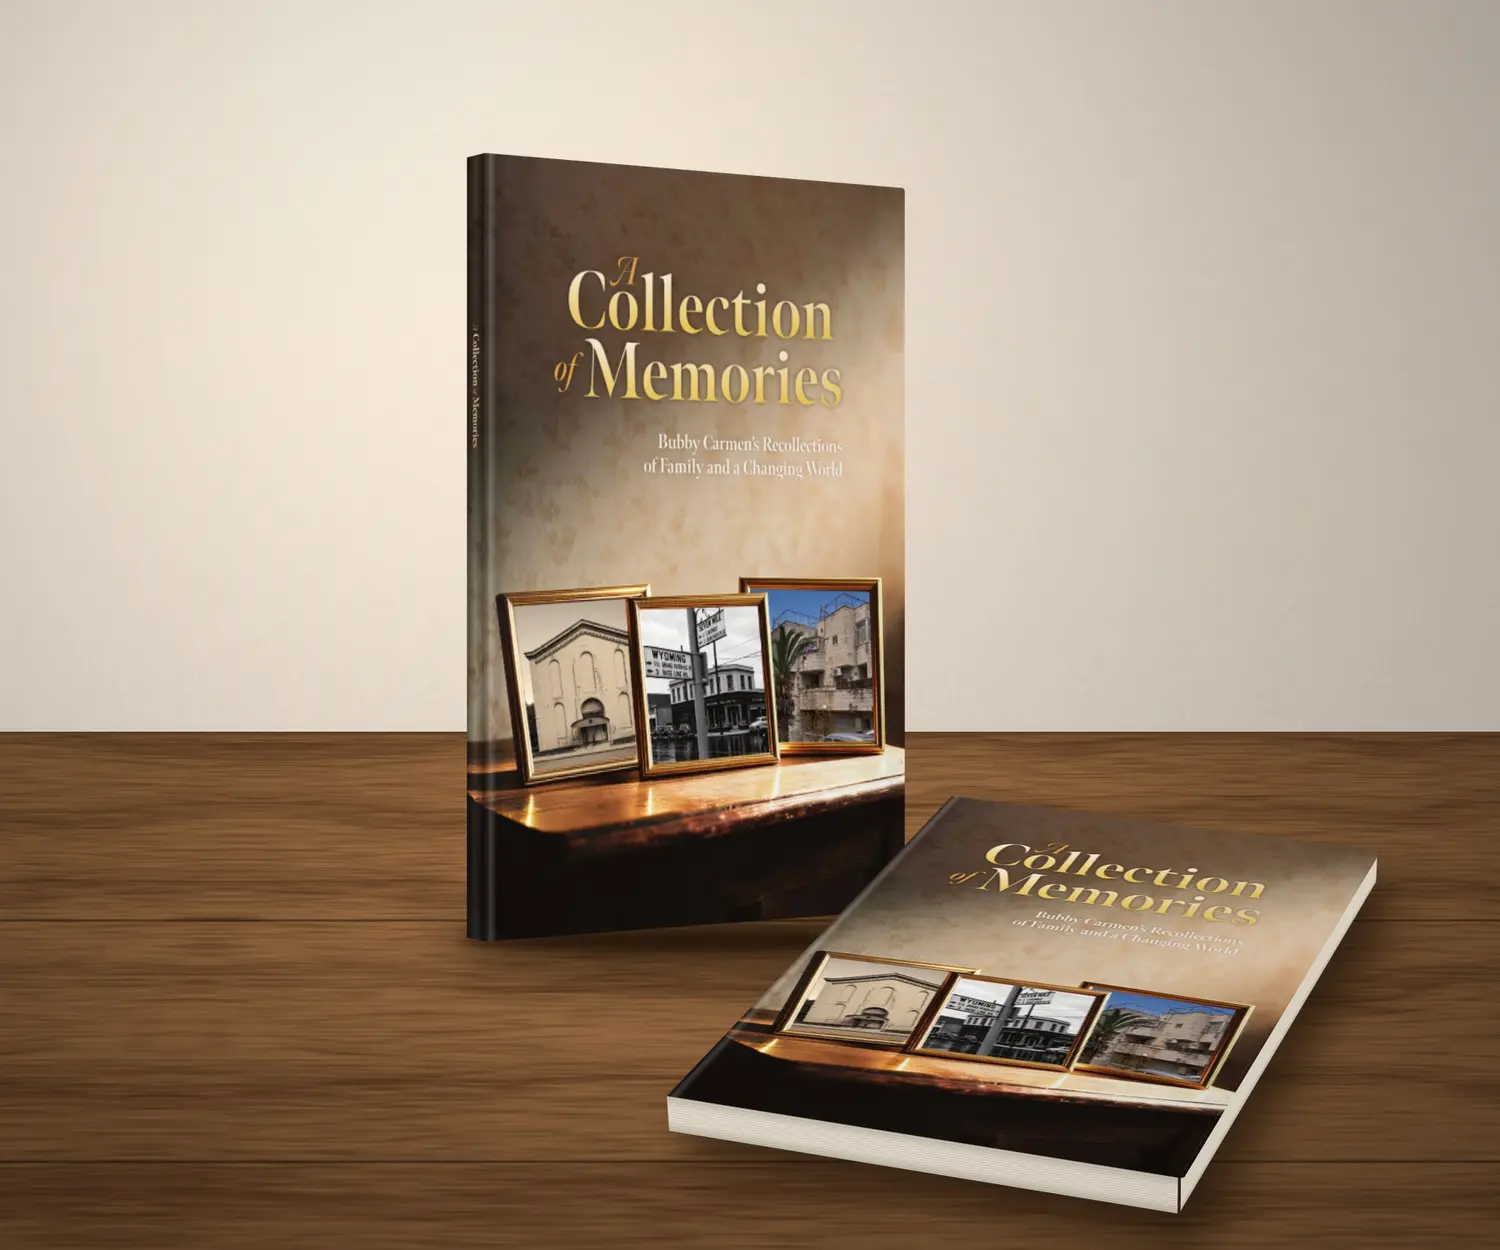
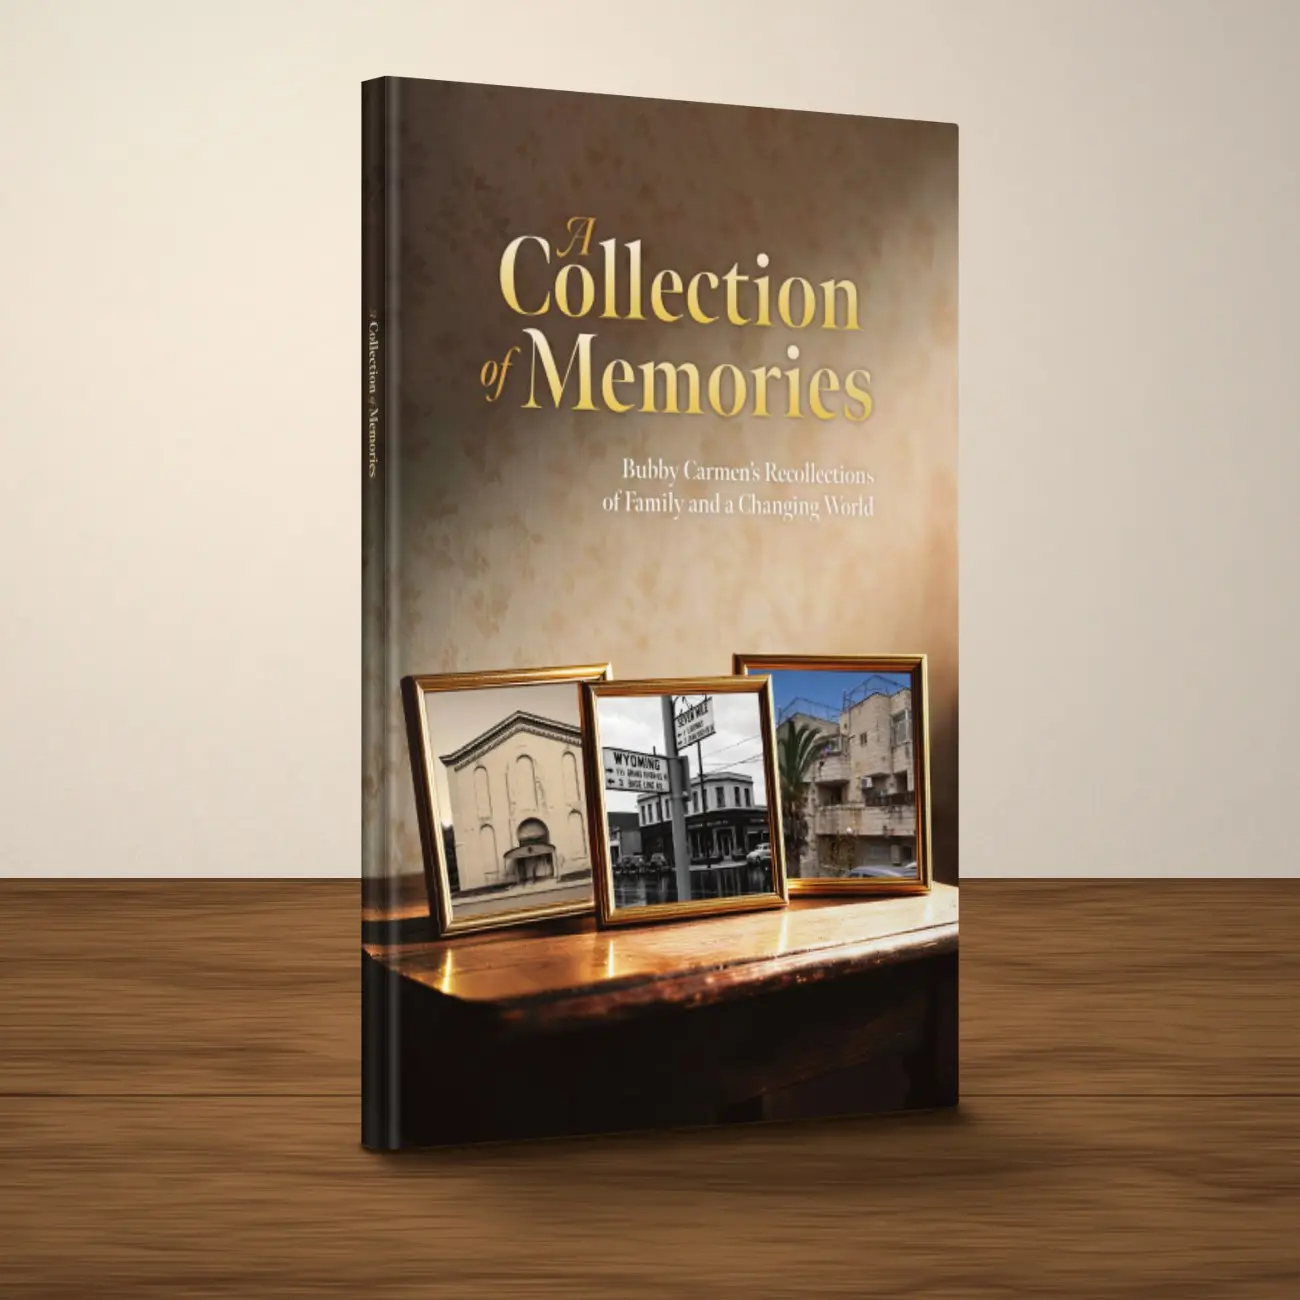
Homepage revisions round 2: single cover, gift image, copy edits, package summaries, compare columns
Claude-Session: https://claude.ai/code/session_01GYZcdU7kqJ5b1Zvsjw12Ux

diff --git a/public/home-v2.css b/public/home-v2.css
@@ -39,7 +39,8 @@ body[data-page="home"] .button:focus-visible { outline: 3px solid var(--sage); o
 .hp-split { display: grid; grid-template-columns: minmax(0, 1fr) minmax(0, 1fr); gap: 64px; align-items: center; }
 .hp-gift-media { margin: 0; }
 .hp-gift-media img { display: block; width: 100%; height: auto; border-radius: 6px; box-shadow: 0 24px 50px -22px #28372b80; }
-.hp-gift-copy p:not(.hp-eyebrow) { font-size: 19px; line-height: 1.65; margin: 22px 0 30px; color: var(--ink); }
+.hp-gift-eyebrow { font-family: var(--tagline); font-style: italic; font-size: 28px; line-height: 1.2; color: var(--dark-sage); margin-bottom: 14px; }
+.hp-gift-copy p:not(.hp-gift-eyebrow) { font-size: 19px; line-height: 1.65; margin: 22px 0 30px; color: var(--ink); }
 
 /* 4 How it works */
 .hp-how { padding: 100px 0; }
@@ -56,28 +57,25 @@ body[data-page="home"] .button:focus-visible { outline: 3px solid var(--sage); o
 .hp-matters { background: var(--dark-brown); color: #f6efe4; padding: 100px 0; text-align: center; }
 .hp-matters .hp-narrow { margin: 0 auto; }
 .hp-objection { font-family: var(--tagline); font-style: italic; font-size: clamp(28px, 3.2vw, 42px); line-height: 1.2; color: #fff; }
-.hp-answer { margin-top: 26px; font-size: 22px; color: #e8d9c3; }
-.hp-answer span { display: block; margin-top: 6px; color: #c9b597; font-size: 18px; }
+.hp-answer { margin-top: 26px; font-size: 22px; line-height: 1.5; color: #e8d9c3; }
 .hp-memories { list-style: none; padding: 0; margin: 26px auto 0; display: grid; grid-template-columns: repeat(2, minmax(0, 1fr)); gap: 12px 28px; max-width: 720px; text-align: left; }
-.hp-memories li { font-size: 18px; padding: 14px 18px 14px 44px; position: relative; background: #ffffff0d; border: 1px solid #ffffff1f; border-radius: 5px; }
-.hp-memories li::before { content: "“"; position: absolute; left: 16px; top: 6px; font-family: var(--tagline); font-size: 34px; color: #a8bf98; }
+.hp-memories li { font-size: 18px; padding: 14px 18px 14px 42px; position: relative; background: #ffffff0d; border: 1px solid #ffffff1f; border-radius: 5px; }
+.hp-memories li::before { content: ""; position: absolute; left: 20px; top: 50%; width: 8px; height: 8px; margin-top: -4px; border-radius: 50%; background: #a8bf98; }
 .hp-matters-close { margin-top: 40px; font-family: var(--tagline); font-size: 28px; color: #c7d8b9; }
 
 /* 6 Show the product */
 .hp-product { padding: 100px 0 90px; }
 .hp-product-head { display: grid; grid-template-columns: minmax(0, 1fr) minmax(0, 1fr); gap: 48px; align-items: end; margin-bottom: 44px; }
 .hp-product-head p { font-size: 19px; line-height: 1.6; color: var(--muted); }
-.hp-gallery { display: grid; grid-template-columns: repeat(3, minmax(0, 1fr)); gap: 26px 22px; align-items: start; }
-.hp-gallery figure { margin: 0; }
-.hp-gallery img { display: block; width: 100%; height: auto; border-radius: 6px; background: #efe8dc; }
-.hp-gallery figcaption { margin-top: 10px; font-size: 14px; color: var(--muted); }
-.hp-g-spread { grid-column: span 2; }
-.hp-g-spread img { aspect-ratio: 1600 / 1120; object-fit: cover; }
-.hp-g-cover img { aspect-ratio: 0.69; object-fit: cover; }
-.hp-g-page img { aspect-ratio: 4 / 3; object-fit: cover; object-position: 50% 8%; border: 1px solid var(--line); }
-.hp-g-hand { grid-column: span 2; }
-.hp-placeholder > div { aspect-ratio: 8 / 3; min-height: 160px; border: 2px dashed #c9bda9; border-radius: 6px; display: flex; flex-direction: column; justify-content: center; align-items: center; text-align: center; gap: 6px; padding: 24px; background: #faf6ef; color: var(--muted); font-size: 15px; }
-.hp-placeholder strong { color: var(--brown); font-size: 17px; }
+.hp-product-grid { display: grid; grid-template-columns: minmax(0, 1.55fr) minmax(0, 1fr); gap: 48px; align-items: center; }
+.hp-spread { margin: 0; }
+.hp-spread img { display: block; width: 100%; height: auto; border-radius: 6px; box-shadow: 0 26px 50px -24px #3f250d70; }
+.hp-features ul { list-style: none; padding: 0; margin: 0 0 30px; display: grid; gap: 0; }
+.hp-features li { padding: 18px 0 18px 30px; border-bottom: 1px solid var(--line); position: relative; }
+.hp-features li:first-child { border-top: 1px solid var(--line); }
+.hp-features li::before { content: ""; position: absolute; left: 2px; top: 27px; width: 10px; height: 10px; background: var(--sage); transform: rotate(45deg); }
+.hp-features h3 { font-family: var(--tagline); font-size: 22px; line-height: 1.25; color: var(--dark-brown); }
+.hp-features p { margin-top: 4px; font-size: 16px; line-height: 1.55; color: var(--muted); }
 .hp-link { display: inline-block; margin-top: 36px; color: var(--brown); font-weight: 700; text-decoration: none; border-bottom: 2px solid #c9bda9; padding-bottom: 2px; }
 .hp-link:hover { border-color: var(--brown); }
 
@@ -89,13 +87,13 @@ body[data-page="home"] .button:focus-visible { outline: 3px solid var(--sage); o
 .hp-pk-tier { font-size: 13px; font-weight: 700; letter-spacing: .14em; text-transform: uppercase; color: var(--dark-sage); }
 .hp-pk h3 { font-family: var(--tagline); font-size: 28px; color: var(--dark-brown); margin-top: 8px; }
 .hp-pk-price { font-size: 17px; font-weight: 400; color: var(--muted); margin-top: 6px; }
-.hp-pk-desc { margin-top: 8px; color: var(--muted); font-size: 16px; line-height: 1.55; min-height: 50px; }
-.hp-pk ul { list-style: none; padding: 0; margin: 22px 0 28px; border-top: 1px solid var(--line); }
-.hp-pk li { padding: 11px 0 11px 28px; border-bottom: 1px solid #efe8dc; position: relative; font-size: 16px; }
-.hp-pk li::before { content: ""; position: absolute; left: 4px; top: 17px; width: 10px; height: 6px; border-left: 2px solid var(--sage); border-bottom: 2px solid var(--sage); transform: rotate(-45deg); }
+.hp-pk-desc { margin: 12px 0 26px; color: var(--muted); font-size: 16px; line-height: 1.55; }
 .hp-pk .button { margin-top: auto; }
-.hp-custom { margin-top: 30px; color: var(--muted); }
-.hp-custom a { color: var(--brown); font-weight: 700; }
+.hp-legacy { margin-top: 26px; background: #fff; border: 1px solid var(--line); border-left: 5px solid var(--brown); border-radius: 6px; padding: 30px 34px; display: flex; align-items: center; justify-content: space-between; gap: 28px 40px; flex-wrap: wrap; }
+.hp-legacy > div { flex: 1 1 420px; min-width: 0; }
+.hp-legacy h3 { font-family: var(--tagline); font-size: 30px; color: var(--dark-brown); margin-top: 6px; }
+.hp-legacy p:not(.hp-pk-tier) { margin-top: 8px; font-size: 17px; line-height: 1.55; color: var(--ink); max-width: 640px; }
+.hp-legacy strong { color: var(--brown); }
 
 /* 8 Final CTA */
 .hp-cta { background: var(--dark-sage); color: #fff; padding: 96px 0; }
@@ -112,8 +110,7 @@ body[data-page="home"] .button:focus-visible { outline: 3px solid var(--sage); o
   .hp-hero-media { max-width: 620px; }
   .hp-gift-media { order: 2; }
   .hp-pk-grid { grid-template-columns: minmax(0, 1fr); max-width: 560px; margin-inline: auto; }
-  .hp-gallery { grid-template-columns: 1fr 1fr; }
-  .hp-g-spread, .hp-g-hand { grid-column: span 2; }
+  .hp-product-grid { grid-template-columns: minmax(0, 1fr); gap: 32px; }
 }
 /* Phone */
 @media (max-width: 640px) {
@@ -125,8 +122,8 @@ body[data-page="home"] .button:focus-visible { outline: 3px solid var(--sage); o
   .hp-steps { grid-template-columns: minmax(0, 1fr); gap: 40px; margin-top: 40px; }
   .hp-steps li::after { display: none; }
   .hp-memories { grid-template-columns: minmax(0, 1fr); }
-  .hp-gallery { grid-template-columns: minmax(0, 1fr); }
-  .hp-g-spread, .hp-g-hand { grid-column: auto; }
-  .hp-placeholder > div { aspect-ratio: auto; min-height: 150px; }
+  .hp-gift-eyebrow { font-size: 24px; }
+  .hp-legacy { padding: 24px 22px; }
+  .hp-legacy .button { flex: 1 1 100%; }
   .hp-pk-price { font-size: 17px; font-weight: 400; color: var(--muted); margin-top: 6px; }
 }

diff --git a/public/packages-ui.js b/public/packages-ui.js
@@ -51,6 +51,8 @@
   const href=p.inquiryEmail;$('inquiry-email').setAttribute('href',href);window.BTT_UI.openDialog('inquiry-dialog',button);
  }));
  $('print-packages').addEventListener('click',()=>window.print());
- window.addEventListener('pageshow',()=>{highlight(null);if($('inquiry-dialog').open)$('inquiry-dialog').close();});
+ function applyHash(){const m=((window.location&&window.location.hash)||'').match(/^#compare(?:-(classic|signature|premier|custom))?$/);if(!m)return;showView(true);highlight(m[1]||null);const panel=$('comparison-panel');if(panel.scrollIntoView)panel.scrollIntoView({block:'start'});}
+ window.addEventListener('pageshow',()=>{highlight(null);if($('inquiry-dialog').open)$('inquiry-dialog').close();applyHash();});
+ window.addEventListener('hashchange',applyHash);
  window.addEventListener('resize',()=>{revealColumn(active);updateBrowse();revealCard(browseIndex);});
 })();

diff --git a/public/site-refresh.css b/public/site-refresh.css
@@ -171,3 +171,7 @@
 .package-card .package-price { font-size: 15px; font-weight: 400; color: var(--muted); margin: 2px 0 8px; line-height: 1.4; }
 #comparison-table th .compare-price { display: block; margin-top: 4px; font-size: 14px; font-weight: 400; color: var(--muted); }
 #print-comparison th .print-price { display: block; margin-top: 3px; font-weight: 400; }
+/* Comparison chart: clear column separation */
+#comparison-table th[data-column], #comparison-table td[data-column] { border-left: 1px solid #d3c7b4; }
+#comparison-table td[data-column="signature"], #comparison-table td[data-column="custom"] { background-color: #faf6ef; }
+#comparison-table .highlighted-column { background-color: #eef2e8 !important; }
